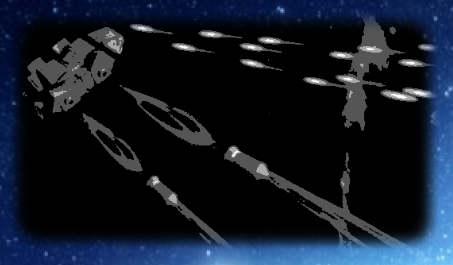
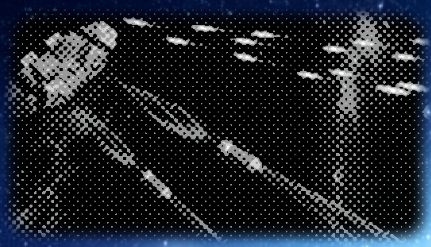
Sine-based effect completed

diff --git a/Scripting-Tutorial-Halftone-Filter.md b/Scripting-Tutorial-Halftone-Filter.md
@@ -80,8 +80,8 @@ source_info.create = function(settings, source)
   -- Compiles the effect
   obs.obs_enter_graphics()
   local effect_file_path = script_path() .. 'filter-halftone.effect.hlsl'
-  data.effect = obslua.gs_effect_create_from_file(effect_file_path, nil)
-  obslua.obs_leave_graphics()
+  data.effect = obs.gs_effect_create_from_file(effect_file_path, nil)
+  obs.obs_leave_graphics()
 
   -- Calls the destroy function if the effect was not compiled properly
   if data.effect == nil then
@@ -96,10 +96,10 @@ end
 -- Destroys and release resources linked to the custom data
 source_info.destroy = function(data)
   if data.effect ~= nil then
-    obslua.obs_enter_graphics()
-    obslua.gs_effect_destroy(data.effect)
+    obs.obs_enter_graphics()
+    obs.gs_effect_destroy(data.effect)
     data.effect = nil
-    obslua.obs_leave_graphics()
+    obs.obs_leave_graphics()
   end
 end
 ```
@@ -131,11 +131,11 @@ source_info.video_render = function(data)
   data.width = obs.obs_source_get_base_width(parent)
   data.height = obs.obs_source_get_base_height(parent)
 
-  obslua.obs_source_process_filter_begin(data.source, obslua.GS_RGBA, obslua.OBS_NO_DIRECT_RENDERING)
+  obs.obs_source_process_filter_begin(data.source, obs.GS_RGBA, obs.OBS_NO_DIRECT_RENDERING)
 
   -- Effect parameters initialization goes here
 
-  obslua.obs_source_process_filter_end(data.source, data.effect, data.width, data.height)
+  obs.obs_source_process_filter_end(data.source, data.effect, data.width, data.height)
 end
 ```
 
@@ -337,11 +337,112 @@ Add all the code blocks in the HLSL file, then _restart OBS_ (only reloading the
 
 The picture is a bit better now.
 
-### Source picture size
+### Width and height from Lua to the shader
 
+Whatever the final form, the halftone effect is based on a pattern applied pixel-by-pixel to the source picture. While it is easy to transform the color of a single pixel, if the position of the pixel is necessary to recognize in which part of a pattern the pixel is located, then the UV coordinates alone are not sufficient in the general case, it is necessary to know the size of the source picture. More about the calculations in the next section.
 
+In this section we will first see how to make the values of `width` and `height` available in the shader from the Lua code. Strangely, OBS does not foresee these parameters in effect files by default. We start with the definition of `uniform` variables in the effect file:
+
+``` HLSL
+// Size of the source picture
+uniform int width;
+uniform int height;
+```
+
+Only uniform variables can be changed from the Lua code. Once an effect is compiled, the function [`gs_effect_get_param_by_name`](https://obsproject.com/docs/reference-libobs-graphics-effects.html#c.gs_effect_get_param_by_name) provides the necessary `gs_eparam` structure where the value can be set. The effect parameters can be retrieved right after effect compilation in `source_info.create`:
+
+``` Lua
+  -- Retrieves the shader uniform variables
+  data.params = {}
+  data.params.width = obs.gs_effect_get_param_by_name(data.effect, "width")
+  data.params.height = obs.gs_effect_get_param_by_name(data.effect, "height")
+```
+
+Finally the values are set with [`gs_effect_set_int`](https://obsproject.com/docs/reference-libobs-graphics-effects.html#c.gs_effect_set_int) between `obs_source_process_filter_begin` and `obs_source_process_filter_end` in in `source_info.video_render`:
+
+``` Lua
+  -- Effect parameters initialization goes here
+  obs.gs_effect_set_int(data.params.width, data.width)
+  obs.gs_effect_set_int(data.params.height, data.height)
+```
+
+Add the code, restart OBS, for now no difference is expected, the interesting things start in the net section.
+
+### Luminance perturbation
+
+Now that the size of the picture is available, we can start to use pixel coordinates for formulas. Namely, we want to add a little perturbation on the computed luminance according to the formula _sin(x)*sin(y)_. The form of this classic formula looks like:
+
+![filter halftone ](images/scripting/filter-halftone-perturbation-curve.png)
+
+The formula will be such that:
+
+- It adds to the luminance a small negative or positive value with a given amplitude
+- The scale of the form can be changed, with a scale of 1.0 corresponding to an oscillation long of 1 pixel
+
+If we name the parameters of the formula simply _scale_ and _amplitude_, assuming _x_ and _y_ are in pixels, the angle for the oscillations on _x_ is given by _2\*&pi;\*x/scale_ (the bigger the _scale_, the longer the oscillations). The sine function returns values between -1.0 and 1.0, so the _amplitude_ can be just multiplied to the product of sine.
+
+The final parameterized formula will be:
+
+_perturbation = amplitude\*sin(2\*&pi;\*x/scale)\*sin(2\*&pi;\*y/scale)_
+
+For the coordinates _x_ and _y_ in pixels, as we have the _width_ and _height_ plus the UV coordinates, the formula are simply _x = U * width_ and _y = V * height_ if we call the UV coordinates _U_ and _V_ here.
+
+In the code, we will use a more compact form with a component-by-component multiplication of `pixel.uv` with `float2(width,height)`. Re-write the center part of the pixel shader (between the decoding and encoding lines) with:
+
+``` HLSL
+    float luminance = dot(linear_color, float3(0.299, 0.587, 0.114));
+    float2 position = pixel.uv * float2(width, height);
+    float perturbation = amplitude * sin(2.0*PI*position.x/scale) * sin(2.0*PI*position.y/scale);
+    float3 result = (luminance + perturbation).xxx;
+```
+
+At the top of the file, do not forget to define a new constant for `PI` and the new uniform variables `scale` and `amplitude` with default values:
+
+``` HLSL
+// Constants
+#define PI 3.141592653589793238
+
+// General properties
+uniform float amplitude = 0.2;
+uniform float scale = 8.0;
+```
+
+Add the code, restart OBS, now the effect should look like this:
+
+![filter halftone perturbation](images/scripting/filter-halftone-perturbation.png)
+
+It slowly starts to look like a halftone.
+
+### Reducing the number of colors
+
+Until now we use a continuous luminance. The next step is to mimic a reduced number of inks on a printed paper.
+
+For a given value of luminance from 0.0 to 1.0, we can multiply the value by a constant factor and then round the product to obtain a certain number of integer values. For example, with a factor of 3, we obtain the values 0, 1, 2 and 3. The we re-divide by 3 to obtain 4 luminance values with values 0.0, 0.33, 0.66 and 1.0. It can be generalized to _n_ colors by multiplying/dividing by _n-1_.
+
+The computation is really simple to implement. We start by adding a global uniform number of colors:
+
+``` HLSL
+uniform int number_of_colors = 4.0;
+```
+
+And we add a single line in the pixel shader, just before the gamma encoding:
+
+``` HLSL
+    result = round((number_of_colors-1)*result)/(number_of_colors-1);
+```
+
+Add the code, restart OBS, now the effect should look like this:
+
+![filter halftone 4 colors](images/scripting/filter-halftone-4-colors.png)
+
+Here we are! The sine-based halftone effect is completely implemented now. It has many parameters set with default values. To finish the filter we need to let the user set the parameters.
 
 ### Adding properties
+
+The effect is already satisfactory, we now want to improve the user experience.
+
+
+
 
 This version is definitely a good starting point for further development. The complete [source code of this first part](Scripting-Tutorial-Halftone-Filter-Listing.md) is available.
 
